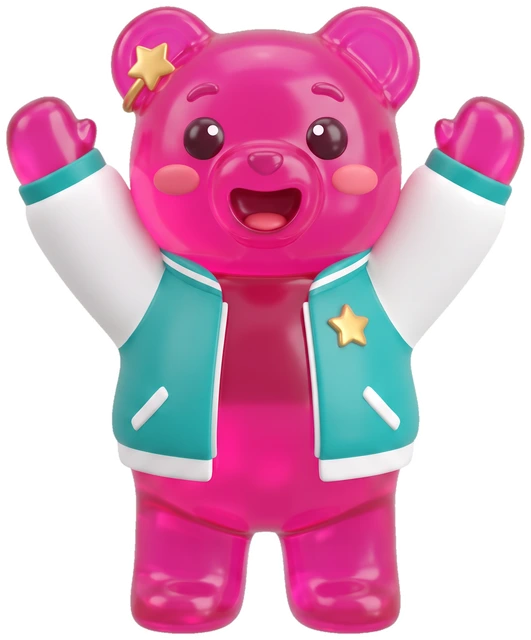
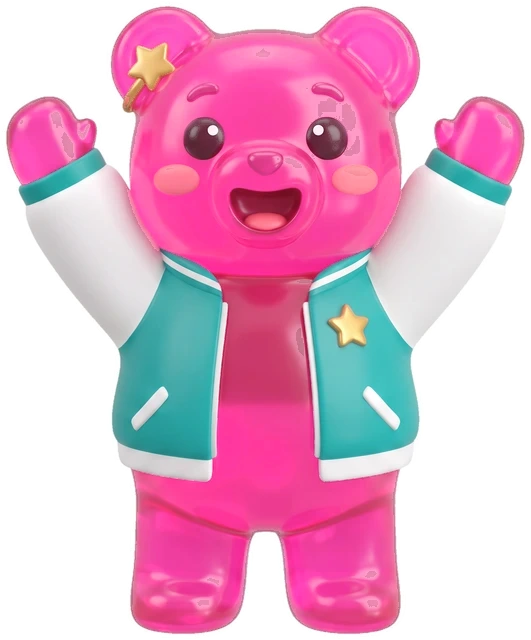
Lighter bear color

diff --git a/sw.js b/sw.js
@@ -1,5 +1,5 @@
 /* Candoku service worker: cache the app shell so it works offline. Bump VERSION on each release. */
-const VERSION = 'candoku-v77';
+const VERSION = 'candoku-v78';
 const FILES = ['./', 'index.html', 'style.css', 'engine.js', 'hints.js', 'seeds.js', 'sound.js', 'music.js', 'voice.js', 'app.js', 'manifest.webmanifest', 'icon-192.png', 'icon-180.png', 'icon-192.png', 'icon-512.png', 'icon-maskable-512.png', 'icons/lollipop.png', 'icons/candy.png', 'icons/chocolate_bar.png', 'icons/doughnut.png', 'icons/cupcake.png', 'icons/cookie.png', 'icons/cherries.png', 'icons/soft_ice_cream.png', 'icons/shortcake.png', 'icons/dango.png', 'art/bg_0.jpg', 'art/bg_1.jpg', 'art/bg_2.jpg', 'art/bg_3.jpg', 'art/bg_4.jpg', 'art/bg_5.jpg', 'art/bg_6.jpg', 'art/bg_7.jpg', 'art/bg_8.jpg', 'art/ic_undo.webp', 'art/ic_hint.webp', 'art/ic_wand.webp', 'art/ic_maybe.webp', 'art/ic_restart.webp', 'art/ic_coin.webp', 'art/ic_chest.webp', 'art/ic_wheel.webp', 'art/ic_games.webp', 'art/nav_gifts.webp', 'art/nav_quests.webp', 'art/nav_home.webp', 'art/nav_shop.webp', 'art/nav_rank.webp', 'art/ic_heart.webp', 'art/ic_heart_off.webp', 'art/cd_lollipop.webp', 'art/cd_candy.webp', 'art/cd_chocolate_bar.webp', 'art/cd_doughnut.webp', 'art/cd_cupcake.webp', 'art/cd_cookie.webp', 'art/cd_cherries.webp', 'art/cd_soft_ice_cream.webp', 'art/cd_shortcake.webp', 'art/cd_dango.webp', 'art/tool_undo.webp', 'art/tool_hint.webp', 'art/tool_wand.webp', 'art/tool_maybe.webp', 'art/tool_maybe_green.webp', 'art/tool_restart.webp', 'art/ribbon.webp', 'art/ribbon_teal.webp', 'art/panel_blue.webp', 'art/ic_shield.webp', 'art/ic_double.webp', 'art/ic_sweeper.webp', 'art/ic_lens.webp', 'audio/voice/reward1.mp3', 'audio/voice/reward2.mp3', 'audio/voice/reward3.mp3', 'audio/voice/bigreward.mp3', 'audio/voice/wandget.mp3', 'art/gumi_pirate.webp', 'art/gumi_astronaut.webp', 'art/gumi_chef.webp', 'art/gumi_ninja.webp', 'art/btn_green.webp', 'art/btn_orange.webp', 'art/btn_blue.webp', 'art/logo.webp', 'art/ribbon_0.webp', 'art/ribbon_1.webp', 'art/ribbon_2.webp', 'art/ribbon_3.webp', 'art/ribbon_4.webp', 'art/ribbon_5.webp', 'art/ribbon_6.webp', 'art/ribbon_7.webp', 'art/ribbon_8.webp', 'art/ribbon_9.webp', 'art/gumi_win.webp', 'art/gumi_jump.webp', 'art/tool_restart_red.webp', 'art/wheel_ring.webp', 'art/wheel_hub.webp', 'art/wheel_pointer.webp', 'art/tool_sweeper.webp', 'art/tool_lens.webp', 'art/gumi.webp', 'art/gumi_hero.webp', 'art/star_gold.webp', 'art/star_grey.webp', 'art/gumi_blue.webp', 'art/gumi_red.webp', 'art/panel.webp', 'audio/sfx/n0.mp3', 'audio/sfx/n1.mp3', 'audio/sfx/n2.mp3', 'audio/sfx/n3.mp3', 'audio/sfx/n4.mp3', 'audio/sfx/n5.mp3', 'audio/sfx/n6.mp3', 'audio/sfx/n7.mp3', 'audio/sfx/n8.mp3', 'audio/sfx/fanfare.mp3', 'audio/sfx/stars.mp3', 'audio/music/w4.mp3', 'audio/music/w5.mp3', 'audio/music/w6.mp3', 'audio/music/w7.mp3', 'audio/music/w8.mp3', 'audio/music/menu.mp3', 'audio/music/w0.mp3', 'audio/music/w1.mp3', 'audio/music/w2.mp3', 'audio/music/w3.mp3', 'audio/voice/close.mp3', 'audio/voice/delicious.mp3', 'audio/voice/divine.mp3', 'audio/voice/first.mp3', 'audio/voice/go.mp3', 'audio/voice/hard.mp3', 'audio/voice/intro1.mp3', 'audio/voice/intro2.mp3', 'audio/voice/intro3.mp3', 'audio/voice/letsplay.mp3', 'audio/voice/lose.mp3', 'audio/voice/nice.mp3', 'audio/voice/perfect.mp3', 'audio/voice/ready.mp3', 'audio/voice/sugartastic.mp3', 'audio/voice/tasty.mp3', 'audio/voice/veryhard.mp3', 'audio/voice/verytasty.mp3', 'audio/voice/welcome.mp3', 'audio/voice/yummy.mp3', 'audio/voice/z0.mp3', 'audio/voice/z1.mp3', 'audio/voice/z2.mp3', 'audio/voice/z3.mp3', 'audio/voice/z4.mp3', 'audio/voice/z5.mp3', 'audio/voice/z6.mp3', 'audio/voice/z7.mp3', 'audio/voice/z8.mp3'];
 self.addEventListener('install', (e) => {
   e.waitUntil(caches.open(VERSION).then((c) => c.addAll(FILES)).then(() => self.skipWaiting()));

diff --git a/index.html b/index.html
@@ -185,7 +185,7 @@
     <button class="btn" id="maybeBtn" type="button" aria-pressed="false" aria-label="Maybe" title="Maybe"><img class="tico" src="art/tool_maybe.webp" alt="" draggable="false"></button>
     <button class="btn" id="clearBtn" type="button" aria-label="Restart" title="Restart"><img class="tico" src="art/tool_restart_red.webp" alt="" draggable="false"></button>
   </div>
-  <p class="help">Tap: X (tap again to remove). Double tap: candy. Hold a square or use Maybe to mark a ? <span class="ver">v81</span></p>
+  <p class="help">Tap: X (tap again to remove). Double tap: candy. Hold a square or use Maybe to mark a ? <span class="ver">v82</span></p>
 </main>
 
 <!-- WIN -->
